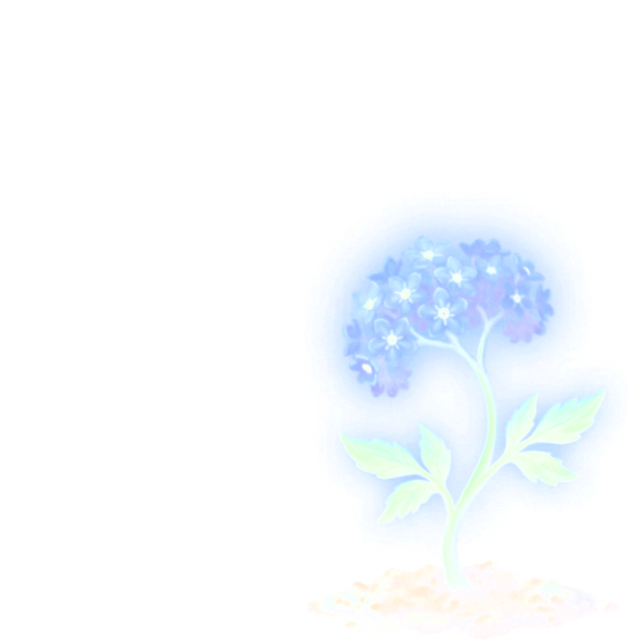
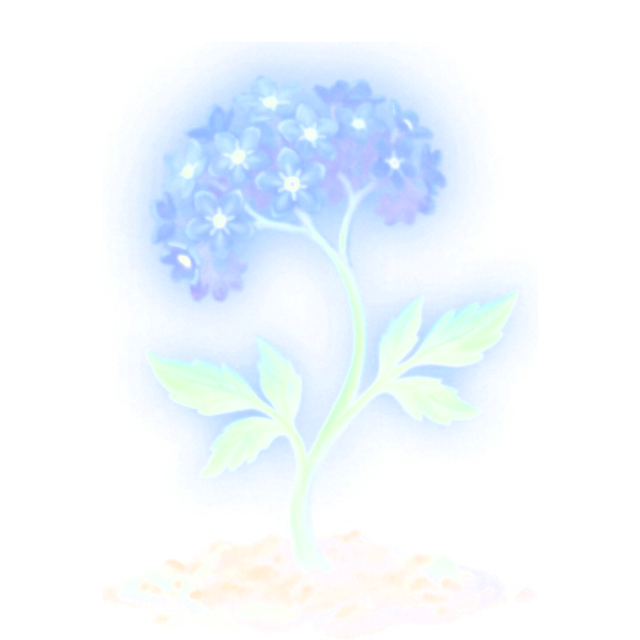
fix some css

diff --git a/client/app/globals.css b/client/app/globals.css
@@ -1,6 +1,8 @@
 :root {
   --bg: #131120;
   --panel: rgba(30, 27, 48, 0.72);
+  /* the painting behind the single-plant views (see .view:has(.scene.plants)) */
+  --scene-plants: url("/assets/plant-scene.jpg");
   --line: rgba(255, 255, 255, 0.09);
   --text: #f4efe4;
   --muted: #a49ec4;
@@ -65,6 +67,37 @@ p { margin: 0; }
     linear-gradient(rgba(19, 17, 32, 0.04), rgba(19, 17, 32, 0.3)),
     var(--scene),
     radial-gradient(120% 90% at 50% 108%, #4a3a6b 0%, #241f42 45%, #131120 100%);
+}
+/* The single-plant views (plants/[id], /plant, /grow) sit on one quiet corner of
+   the same garden. The painting is painted on the scroll container itself - a
+   scrollport background never scrolls with the content and always covers the
+   view - and the scrims ride on top of it there too, so nothing can scroll or
+   end early. `.scene.plants` is just the hook that switches it on. */
+.view:has(.scene.plants) {
+  background-color: #131120;
+  background-image:
+    linear-gradient(100deg, rgba(13, 12, 22, 0.82) 0%, rgba(13, 12, 22, 0.52) 34%, rgba(13, 12, 22, 0.06) 60%),
+    linear-gradient(rgba(19, 17, 32, 0.12), rgba(19, 17, 32, 0.5)),
+    var(--scene-plants);
+  /* the painting is zoomed a touch and nudged so the lantern sits clear of the
+     flower; the scrims always cover the whole view */
+  background-size: cover, cover, 122%;
+  background-position: 0 0, 0 0, 70% 46%;
+  background-repeat: no-repeat;
+}
+/* a wide, short window keeps the zoom; anything portrait-ish (phones) uses plain
+   cover, because a percentage width can leave the painting too short to fill */
+@media (max-aspect-ratio: 3 / 2) {
+  .view:has(.scene.plants) {
+    background-size: cover, cover, cover;
+    background-position: 0 0, 0 0, 62% 46%;
+  }
+}
+/* the base .scene would otherwise paint the default dusk image over the
+   painting, and its opaque background colour would hide it too */
+.scene.plants {
+  background-color: transparent;
+  background-image: none;
 }
 
 .fireflies { position: absolute; inset: 0; pointer-events: none; overflow: hidden; }
@@ -240,7 +273,7 @@ textarea:focus, input:focus { border-color: rgba(255, 184, 107, 0.55); box-shado
 .music-controls .btn { padding: 7px 16px; font-size: 12.5px; flex-shrink: 0; }
 
 .main { display: flex; flex-direction: column; min-width: 0; height: 100vh; height: 100dvh; }
-.view { flex: 1; min-height: 0; overflow-y: auto; display: flex; flex-direction: column; animation: viewIn 0.38s ease; }
+.view { flex: 1; min-height: 0; overflow-y: auto; overflow-x: hidden; display: flex; flex-direction: column; animation: viewIn 0.38s ease; }
 @keyframes viewIn { from { opacity: 0; transform: translateY(10px); } to { opacity: 1; transform: none; } }
 
 .topbar { display: flex; align-items: flex-end; justify-content: space-between; gap: 16px; padding: 26px 34px 18px; flex-shrink: 0; }
@@ -352,6 +385,41 @@ textarea:focus, input:focus { border-color: rgba(255, 184, 107, 0.55); box-shado
 
 .art { position: relative; display: inline-flex; align-items: flex-end; justify-content: center; }
 .art img { display: block; width: 100%; height: auto; }
+
+/* Blending a plant into a painted scene: the mound dissolves into the ground, a
+   contact shadow grounds it, and the flower's glow spills onto the soil. */
+.on-scene img {
+  -webkit-mask-image: linear-gradient(to top, transparent 0%, #000 10%);
+  mask-image: linear-gradient(to top, transparent 0%, #000 10%);
+}
+.on-scene::before,
+.on-scene::after {
+  content: "";
+  position: absolute;
+  left: 50%;
+  top: 100%;
+  transform: translate(-50%, -50%);
+  pointer-events: none;
+}
+.on-scene::before {
+  width: 74%;
+  height: 18px;
+  border-radius: 50%;
+  background: radial-gradient(50% 50% at 50% 50%, rgba(0, 0, 0, 0.55), transparent 72%);
+}
+.on-scene::after {
+  width: 190%;
+  aspect-ratio: 1;
+  border-radius: 50%;
+  background: radial-gradient(closest-side, var(--glow, #ffb86b), transparent 72%);
+  opacity: 0.2;
+  filter: blur(12px);
+  mix-blend-mode: screen;
+  animation: breathe 7s ease-in-out infinite;
+}
+@keyframes breathe {
+  50% { opacity: 0.34; }
+}
 .art.wilted img { filter: grayscale(1) brightness(0.7); }
 .art.big { width: 220px; height: 260px; }
 .art.big img { width: 196px; }
@@ -385,6 +453,18 @@ textarea:focus, input:focus { border-color: rgba(255, 184, 107, 0.55); box-shado
 .art.form-art img { width: 196px; }
 
 .detail { display: grid; grid-template-columns: minmax(0, 1fr) 360px; gap: 26px; padding: 0 34px 40px; align-items: start; }
+.detail-screen { position: relative; display: flex; flex-direction: column; flex: 1; min-height: 0; }
+/* the painting's lit ground sits lower than the art column, so the plant is
+   nudged down to stand on it; ghost buttons get a darker glass to stay legible */
+.detail-screen .detail-art { padding-top: 186px; }
+.detail-screen .btn-ghost { background: rgba(13, 11, 24, 0.5); }
+/* the glass picks the painting up, which is what gives the input card its design */
+.detail-screen .card,
+.form-screen .card { background: rgba(24, 21, 40, 0.55); backdrop-filter: blur(18px) saturate(1.05); }
+.detail-screen .card .card,
+.form-screen .card .card { background: rgba(15, 13, 26, 0.5); }
+.form-screen input,
+.form-screen textarea { background: rgba(13, 11, 24, 0.72); }
 .detail-card h1 { font-size: 33px; margin-bottom: 12px; }
 .meta { color: var(--muted); font-size: 13.5px; margin: 14px 0 20px; }
 blockquote { margin: 0; font-family: var(--font-display); font-size: 22px; line-height: 1.6; color: #f8f4ea; font-style: italic; padding-left: 18px; border-left: 2px solid rgba(255, 184, 107, 0.45); }

diff --git a/client/app/(app)/plants/[id]/page.tsx b/client/app/(app)/plants/[id]/page.tsx
@@ -104,7 +104,7 @@ export default function PlantDetailPage() {
   const last = plant.events[plant.events.length - 1]?.at ?? plant.createdAt;
 
   return (
-    <>
+    <div className="detail-screen scene plants">
       <div className="topbar">
         <div>
           <Link className="back" href="/garden">
@@ -157,7 +157,7 @@ export default function PlantDetailPage() {
 
         <aside className="detail-art">
           <div
-            className={`art big stage-${plant.stage}${plant.stage === "withered" ? " wilted" : ""}${
+            className={`art big on-scene stage-${plant.stage}${plant.stage === "withered" ? " wilted" : ""}${
               grew ? " grew" : ""
             }`}
             style={{ "--glow": meta.glow } as React.CSSProperties}
@@ -213,6 +213,6 @@ export default function PlantDetailPage() {
       </div>
 
       {windOpen && plant && <WindScene plant={plant} onDone={() => router.push("/garden")} />}
-    </>
+    </div>
   );
 }

diff --git a/client/app/(app)/plant/page.tsx b/client/app/(app)/plant/page.tsx
@@ -41,7 +41,7 @@ export default function PlantPage() {
   };
 
   return (
-    <div className="form-screen">
+    <div className="form-screen scene plants">
       <div className="form-card card">
         <h1>Plant Something</h1>
         <p className="sub">Write what&apos;s in your heart. Let it take root.</p>
@@ -79,7 +79,7 @@ export default function PlantPage() {
           Growing this for someone? <Link href="/grow">Grow one for them →</Link>
         </p>
       </div>
-      <div className="art form-art sample">
+      <div className="art form-art sample on-scene">
         <img src={artOfSpecies(CATEGORIES[category].species)} alt="" />
       </div>
     </div>

diff --git a/client/app/(app)/grow/page.tsx b/client/app/(app)/grow/page.tsx
@@ -52,7 +52,7 @@ export default function GrowPage() {
   };
 
   return (
-    <div className="form-screen">
+    <div className="form-screen scene plants">
       <div className="form-card card">
         <h1>Grow for Someone</h1>
         <p className="sub">Pick a plant, tend it over time, and give it when their time comes.</p>
@@ -115,7 +115,7 @@ export default function GrowPage() {
           Just for yourself? <Link href="/plant">Plant something →</Link>
         </p>
       </div>
-      <div className="art form-art sample">
+      <div className="art form-art sample on-scene">
         <img src={artOfSpecies(species)} alt="" />
       </div>
     </div>
